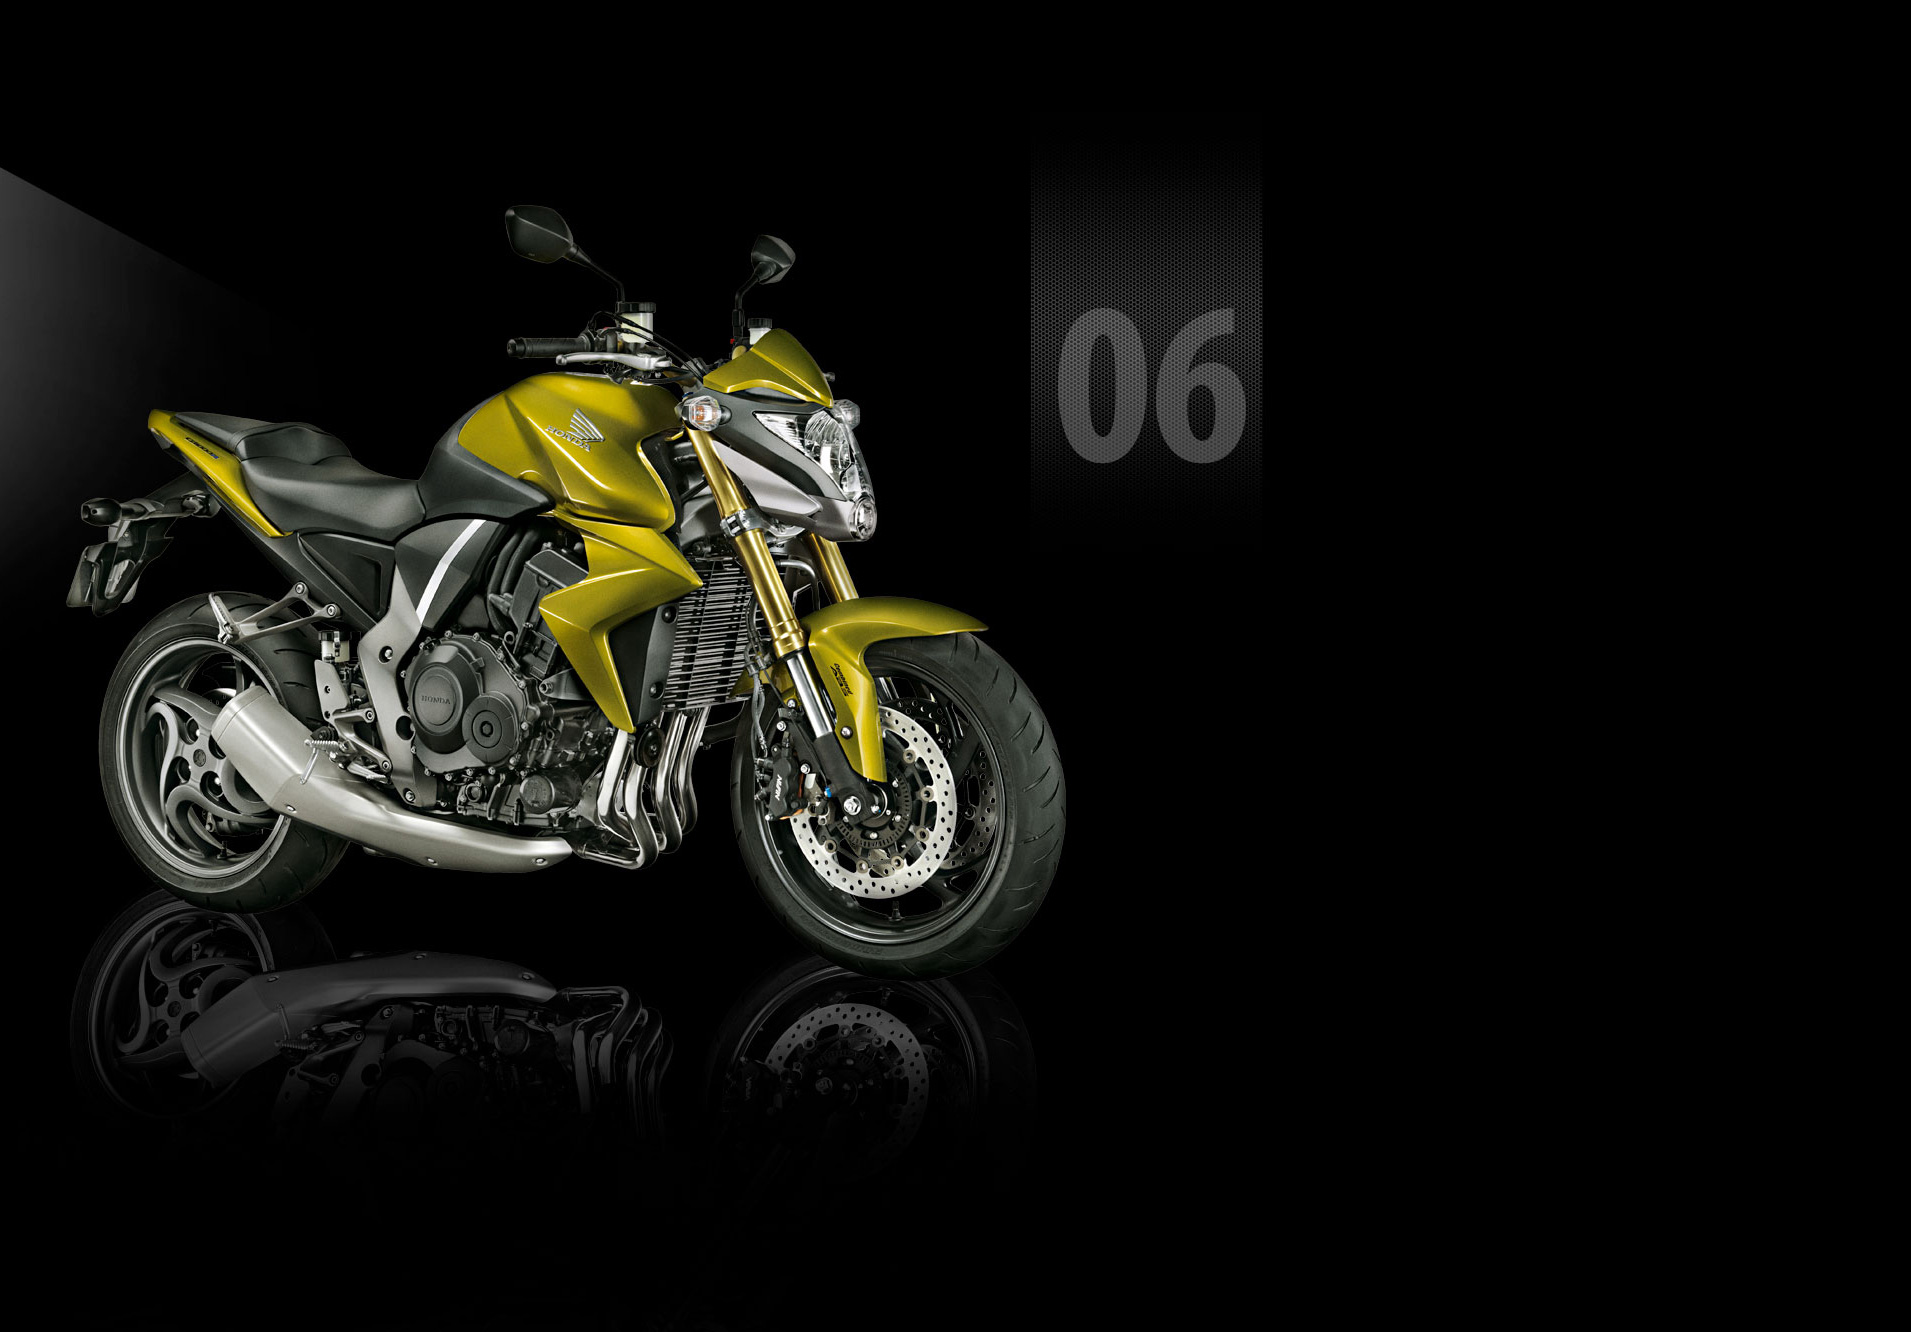
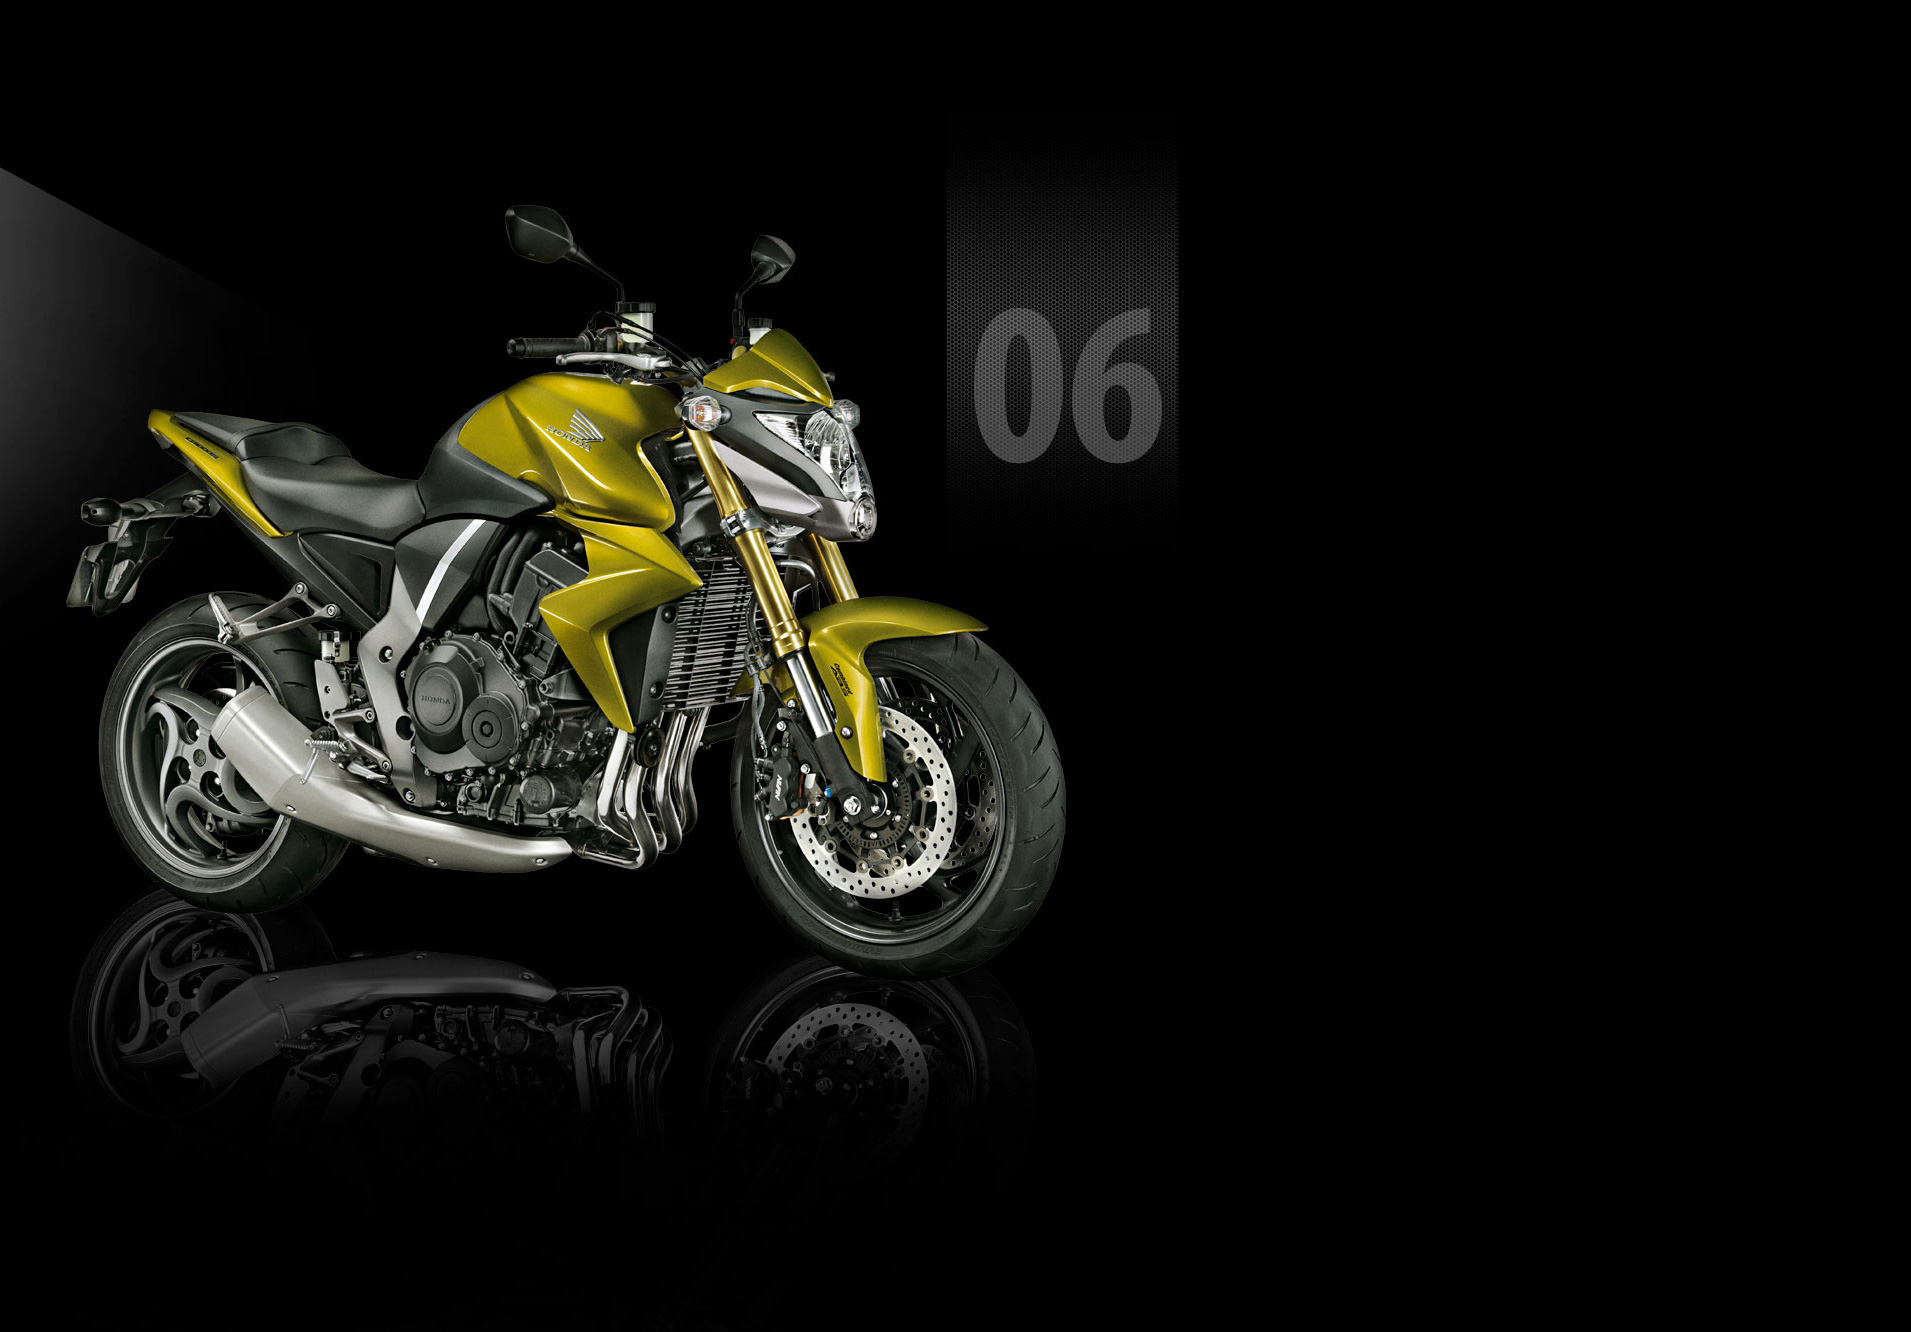
ajustes para ipad e 1024

Changed region(s): [[0.494, 0.1539, 0.6792, 0.3694]]

diff --git a/css/screen.css b/css/screen.css
@@ -6,12 +6,10 @@
 
 #home { background:url(../img/home_bg.jpg) no-repeat top center; }
 #home #mulheres { width: 480px; left:10%; top:165px; }
-#home #mulheres .img_mulheres { margin-left:87px; }
-#home #mulheres .txt_mulheres { margin-left:120px; }
+#home #mulheres .txt_mulheres { margin-left:120px; padding-top:310px; }
 #home .moto { width: 570px; left:35%; top:150px; }
 #home #proprietarios { width: 480px; right:10%; top:150px; }
-#home #proprietarios .props { margin-left:75px; }
-#home #proprietarios .txt_props { margin:55px 0 0 0; }
+#home #proprietarios .txt_props { margin:55px 0 0 0; padding-top:270px; }
 #home #proprietarios_embreve { width:466px; height:217px; top:300px; background:url(../img/proprietario_embreve.png) no-repeat left top; }
 #home #proprietarios_embreve a.fechar_embreve { width:40px; height:40px; }
 
@@ -26,7 +24,7 @@
 #conceito .container_videos .video3 { margin-top:145px; }
 #conceito .container_videos .video3 p { margin:25px 25px; }
 
-#cores { background:url(../img/cores_bg.jpg) no-repeat center -200px;; height:1040px !important; }
+#cores { background:url(../img/cores_bg.jpg) no-repeat center -200px; background-size:1911px 1240px; height:1040px !important; }
 #cores .texto { width:190px; font-family:'Myriad Pro', Arial; top:310px;  }
 #cores .texto h2 { font-size:48px; text-transform:uppercase; color:#38435e; }
 #cores .texto p { font-size:12px; color:#cccccc; margin-bottom:8px; margin-left:5px; }
@@ -37,11 +35,11 @@
 #cores .controles a.preta { background:url(../img/cores_bt_preta.png) no-repeat center top transparent; }
 #cores .controles a.verde { background:url(../img/cores_bt_verde.png) no-repeat center top transparent; }
 
-#galeria { background:url(../img/galeria_bg.jpg) no-repeat center -200px; height:1040px !important; }
+#galeria { background:url(../img/galeria_bg.jpg) no-repeat center -200px; background-size:1911px 1410px; height:1040px !important; }
 #galeria .texto { top:60px; }
 #galeria .texto h2 { font-size:48px; text-transform:uppercase; color:#38435e; }
 #galeria .texto p { font-size:12px; color:#aaaaaa; margin-bottom:8px; margin-left:5px; text-transform:uppercase; }
-#galeria .imagens { top:180px; }
+#galeria .imagens { top:280px; }
 #galeria .imagens ul.container { width:980px; }
 #galeria .imagens ul.container li { width:980px; }
 #galeria .imagens ul.container li.linha1 { top:0; left:0; }
@@ -72,7 +70,7 @@
 #downloads .container div .links h2 { width:100px; height:10px; padding:10px 5px; color:#FFFFFF; font-family:'Myriad Pro', Arial; border-bottom:1px solid #ffffff; margin-bottom:10px; }
 #downloads .container div .links a { color:#FFFFFF; margin-left:5px; }
 
-#especificacoes { background:url(../img/especs_bg.jpg) no-repeat center -100px; height:1040px !important; }
+#especificacoes { background:url(../img/especs_bg.jpg) no-repeat center -100px; background-size:1911px 1220px; height:1040px !important; }
 #especificacoes .texto { top:250px; }
 #especificacoes .texto h2 { font-size:48px; text-transform:uppercase; color:#38435e; }
 #especificacoes .container { width:830px; top:500px; }
@@ -80,7 +78,7 @@
 #especificacoes .container ul li { width:100%; }
 #especificacoes .container ul li span { width:390px; min-height:16px; float:left; background:url(../img/especs_bullets.jpg) no-repeat left 7px; padding-left:20px; text-transform:uppercase; }
 
-#como_comprar { background:url(../img/como_comprar_bg.jpg) no-repeat center -100px; height:1040px !important; }
+#como_comprar { background:url(../img/como_comprar_bg.jpg) no-repeat center -100px; background-size:1911px 1332px; height:1040px !important; }
 #como_comprar .texto { top:200px; }
 #como_comprar .texto h2 { font-size:48px; text-transform:uppercase; color:#38435e; }
 #como_comprar .container { width:360px; top:400px; padding:20px; }

diff --git a/js/main.js b/js/main.js
@@ -235,12 +235,10 @@ var Site = {
 			$('.menu').css({ 'margin-left': ( headerWidth - 920 ) / 2 });
 			
 			//HOME --------------------------------------------------
-			var motoHome = $('#home .moto');
 			pos =  (wind.width() - 570) / 2 ;
-			motoHome.css({ left: pos });
 			
-			$('#home #mulheres').css({ left: pos - 450 });
-			$('#home #proprietarios').css({ left: pos + 520 });
+			$('#home #mulheres').css({ left: pos - 300 });
+			$('#home #proprietarios').css({ left: pos + 450 });
 			
 			var posEmbreve = pos + 520 ;
 			if( posEmbreve + 466 > wind.width() ){
@@ -257,14 +255,14 @@ var Site = {
 			motoCores.css({ 'left': pos - 230});
 			
 			var textoCores = $('#cores .texto');
-			textoCores.css({ 'left': pos + 620});
+			textoCores.css({ 'left': pos + 600});
 			
 			var controlesCores = $('#cores .controles');
 			controlesCores.css({ 'left': pos - 230});
 			
 			//GALERIA --------------------------------------------------
 			var textoGaleria = $('#galeria .texto');
-			textoGaleria.css({ 'left': pos - 180});
+			textoGaleria.css({ 'left': pos + 80});
 			
 			var imagensGaleria = $('#galeria .imagens');
 			imagensGaleria.css({ 'left': pos - 200});
@@ -285,7 +283,7 @@ var Site = {
 			
 			//COMO COMPRAR --------------------------------------------------
 			var textoCC = $('#como_comprar .texto');
-			textoCC.css({ 'left': pos + 600});
+			textoCC.css({ 'left': pos + 530});
 			
 			var conteudoCC = $('#como_comprar .container');
 			conteudoCC.css({ 'left': pos + 380 });

diff --git a/opiniao-dos-proprietarios.html b/opiniao-dos-proprietarios.html
@@ -20,7 +20,7 @@
 		<meta name="keywords" 					content=""																			/>
 		<meta name="distribution" 				content="Global"		 															/>
 		<meta name="reply-to" 					content="contato@agente.com.br"														/>
-		<meta name="viewport" 					content="width=device-width; initial-scale=0.3; user-scalable:no;" 					/>
+		<meta name="viewport" 					content="width=device-width; initial-scale=1.0; user-scalable:no;" 					/>
 		
 		<link rel="shortcut icon" 				type="image/ico" 								href="img/common/favicon.ico" 		/>
 		

diff --git a/opiniao-das-mulheres.html b/opiniao-das-mulheres.html
@@ -20,7 +20,7 @@
 		<meta name="keywords" 					content=""																			/>
 		<meta name="distribution" 				content="Global"		 															/>
 		<meta name="reply-to" 					content="contato@agente.com.br"														/>
-		<meta name="viewport" 					content="width=device-width; initial-scale=0.3; user-scalable:no;" 					/>
+		<meta name="viewport" 					content="width=device-width; user-scalable:no;" 					/>
 		
 		<link rel="shortcut icon" 				type="image/ico" 								href="img/common/favicon.ico" 		/>
 		
